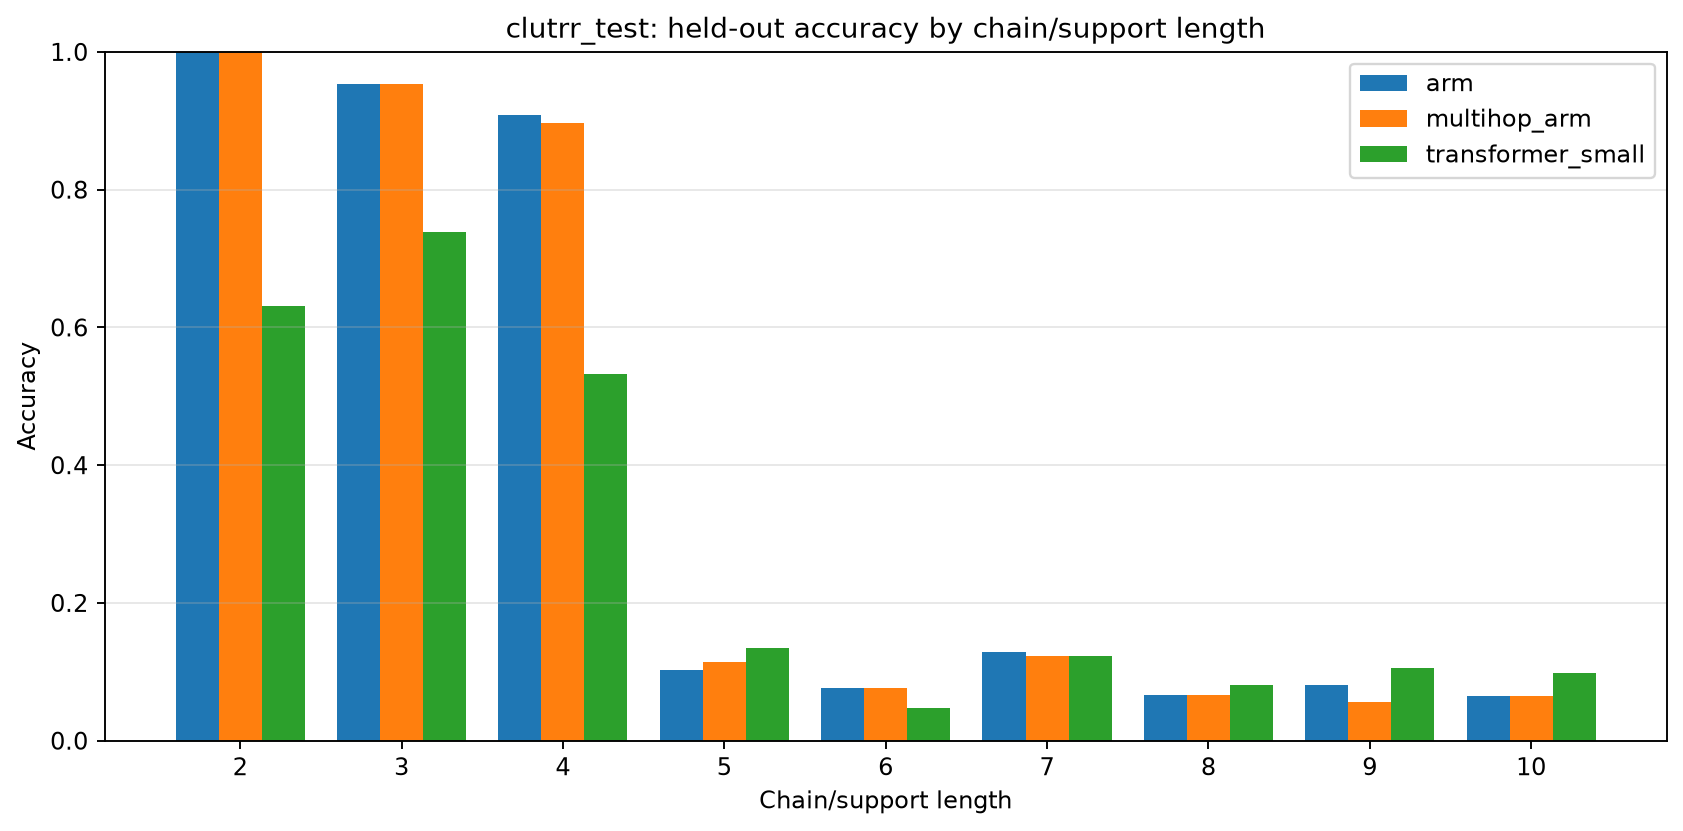
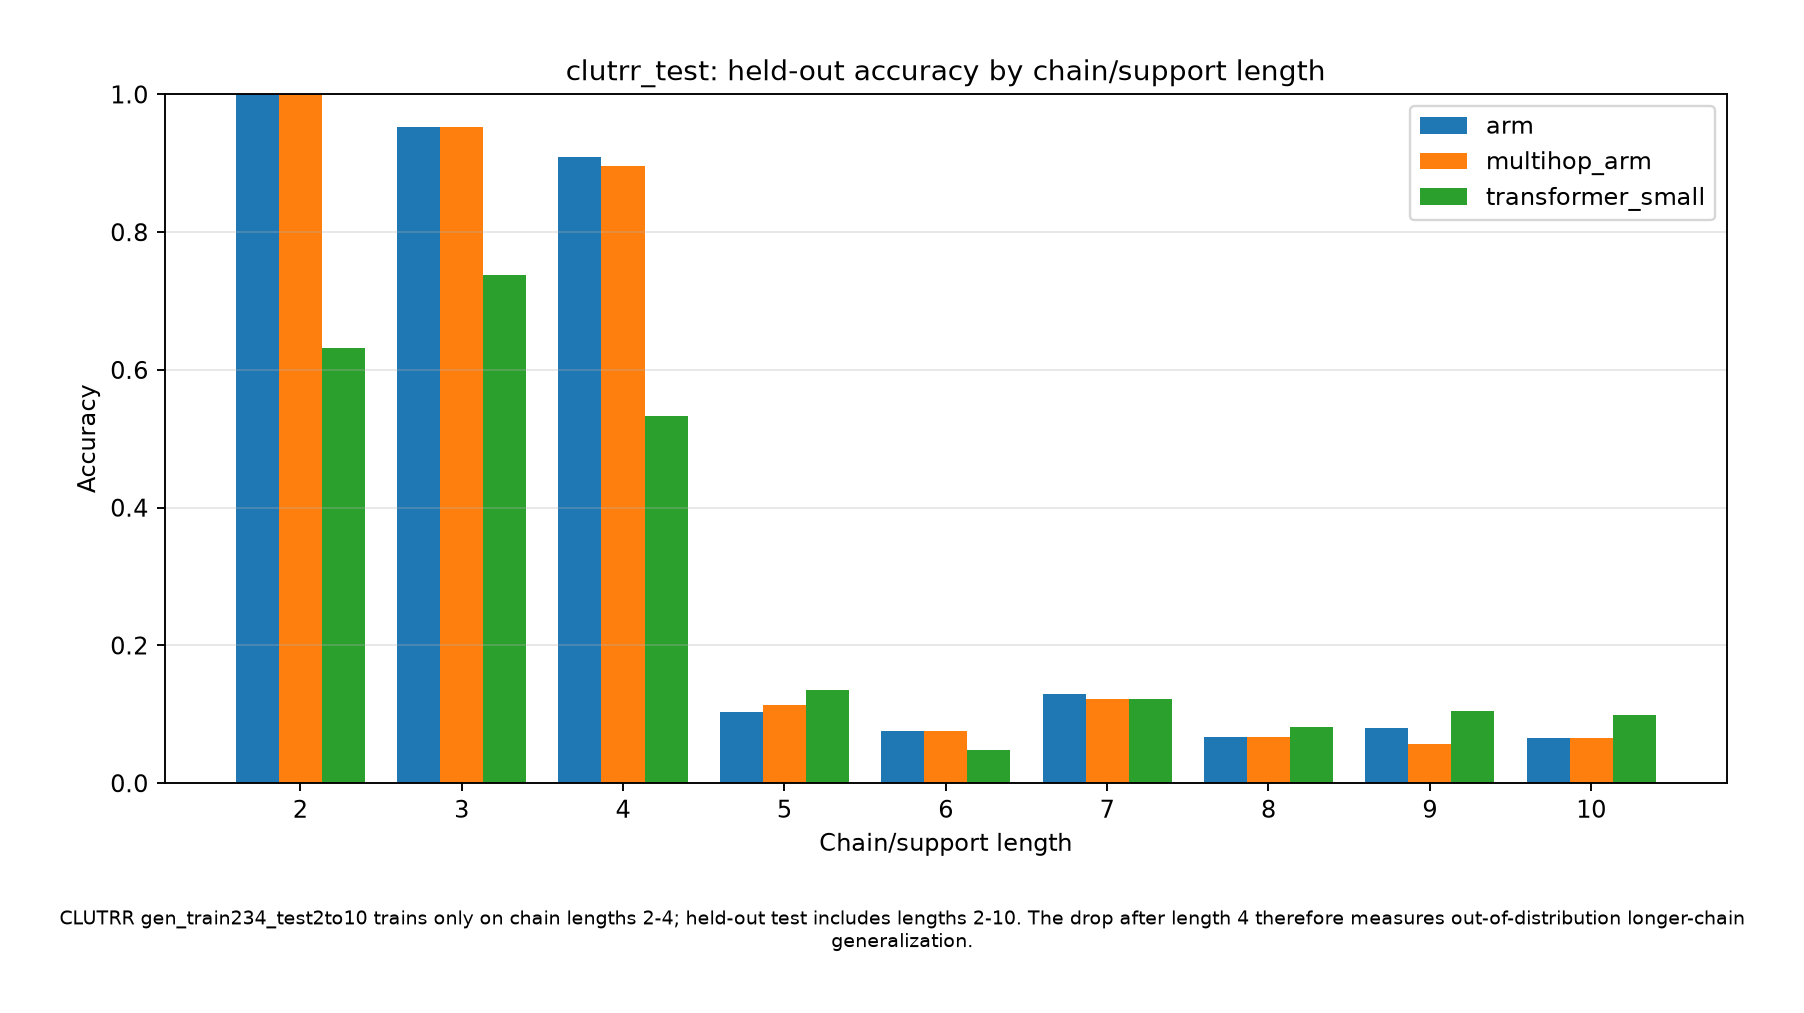
Document CLUTRR chain length generalization

diff --git a/benchmarks/multihop_arm_compare.py b/benchmarks/multihop_arm_compare.py
@@ -143,8 +143,15 @@ def save_diagnostic_pngs(results: Dict[str, Any], out_dir: Path) -> None:
         ax.set_ylim(0.0, 1.0)
         ax.grid(True, axis="y", alpha=0.3)
         ax.legend()
+        if bench == "clutrr_test":
+            caption = (
+                "CLUTRR gen_train234_test2to10 trains only on chain lengths 2-4; "
+                "held-out test includes lengths 2-10. The drop after length 4 "
+                "therefore measures out-of-distribution longer-chain generalization."
+            )
+            fig.text(0.5, -0.03, caption, ha="center", va="top", fontsize=8, wrap=True)
         fig.tight_layout()
-        fig.savefig(out_dir / f"{bench}_multihop_test_by_length.png", dpi=170, bbox_inches="tight")
+        fig.savefig(out_dir / f"{bench}_multihop_test_by_length.png", dpi=170, bbox_inches="tight", pad_inches=0.35)
         plt.close(fig)
 
         label_rows = [[idx, label] for idx, label in enumerate(result.get("labels", []))]

diff --git a/README.md b/README.md
@@ -102,6 +102,12 @@ benchmark_results/multihop_full_eval/babi_25/
 benchmark_results/multihop_full_eval/full_eval_summary.json
 ```
 
+### CLUTRR chain-length finding
+
+![CLUTRR held-out accuracy by chain length](benchmark_results/multihop_clutrr_6/clutrr_test_multihop_test_by_length.png)
+
+For `gen_train234_test2to10`, CLUTRR trains only on chain lengths 2, 3, and 4, while the held-out test split contains chain lengths 2 through 10. Strong accuracy on lengths 2-4 followed by a drop on lengths 5-10 indicates the model learned the training chain distribution but still struggles with out-of-distribution longer-chain generalization.
+
 The script automatically:
 
 - downloads CLUTRR,